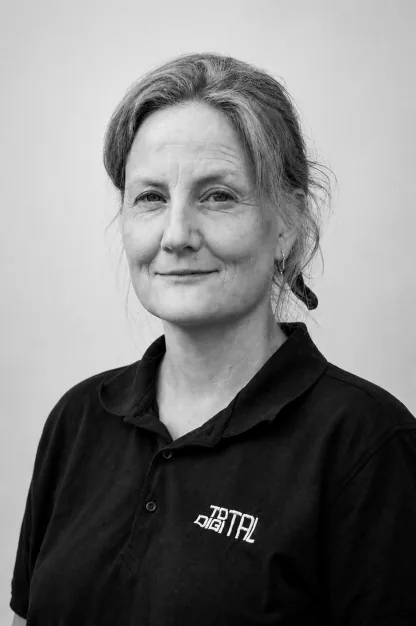
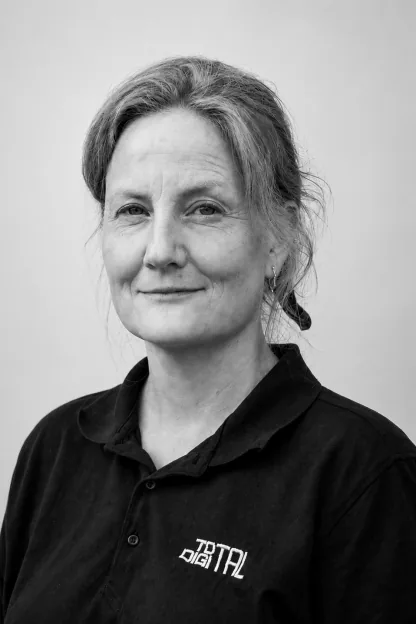
Both CTA portraits centre on the head at a matching size, and the English title is Project Lead

diff --git a/css/style.css b/css/style.css
@@ -1731,7 +1731,17 @@ h1.section-title {
 
 /* A 2:3 half-figure photo cropped to a circle. The window sits near the top of
    the frame rather than centred: a 1:1 cover crop of a 2:3 portrait already
-   holds the whole head, so centring it would show chest instead of face. */
+   holds the whole head, so centring it would show chest instead of face.
+
+   Note that a square cover crop of a 2:3 source shows the FULL width, so the
+   horizontal half of object-position does nothing here — where the head sits
+   left to right is decided when the .webp is cut, not by this rule. Both
+   portraits are cut so the head is centred and both heads come out the same
+   size; straight off the camera Petter's head sat 4.5% right of frame and was
+   23% smaller than Hanna's. Re-cut from the PNG masters alongside with:
+
+     cwebp -q 82 -crop 180 162 779 1169 -resize 416 0 -m 6 PT.png -o PT.webp
+     cwebp -q 82 -crop  65   0 958 1437 -resize 416 0 -m 6 HH.png -o HH.webp */
 .showcase-cta .cta-face {
     display: block;
     flex: 0 0 104px;

diff --git a/en/railway-safety.html b/en/railway-safety.html
@@ -236,7 +236,7 @@
                                 <div class="cta-signature-body">
                                     <p>Want to know more about how this could work in your organisation?</p>
                                     <p class="cta-name">Hanna Hassberg</p>
-                                    <p class="cta-role">Project Manager</p>
+                                    <p class="cta-role">Project Lead</p>
                                     <p class="cta-mail"><a href="mailto:hanna@totaldigital.se?subject=Predictive railway safety">hanna@totaldigital.se</a></p>
                                 </div>
                             </div>

diff --git a/en/raildamage-analyses.html b/en/raildamage-analyses.html
@@ -237,7 +237,7 @@
                                 <div class="cta-signature-body">
                                     <p>Want to know more about how this could work in your organisation?</p>
                                     <p class="cta-name">Petter Tyrenius</p>
-                                    <p class="cta-role">Project Manager</p>
+                                    <p class="cta-role">Project Lead</p>
                                     <p class="cta-mail"><a href="mailto:petter@totaldigital.se?subject=Rail defect analysis">petter@totaldigital.se</a></p>
                                 </div>
                             </div>

diff --git a/en/leak-detection.html b/en/leak-detection.html
@@ -236,7 +236,7 @@
                                 <div class="cta-signature-body">
                                     <p>Want to know more about how this could work in your organisation?</p>
                                     <p class="cta-name">Hanna Hassberg</p>
-                                    <p class="cta-role">Project Manager</p>
+                                    <p class="cta-role">Project Lead</p>
                                     <p class="cta-mail"><a href="mailto:hanna@totaldigital.se?subject=Leak detection">hanna@totaldigital.se</a></p>
                                 </div>
                             </div>

diff --git a/en/sar-processing.html b/en/sar-processing.html
@@ -236,7 +236,7 @@
                                 <div class="cta-signature-body">
                                     <p>Want to know more about how this could work in your organisation?</p>
                                     <p class="cta-name">Hanna Hassberg</p>
-                                    <p class="cta-role">Project Manager</p>
+                                    <p class="cta-role">Project Lead</p>
                                     <p class="cta-mail"><a href="mailto:hanna@totaldigital.se?subject=SAR processing">hanna@totaldigital.se</a></p>
                                 </div>
                             </div>
